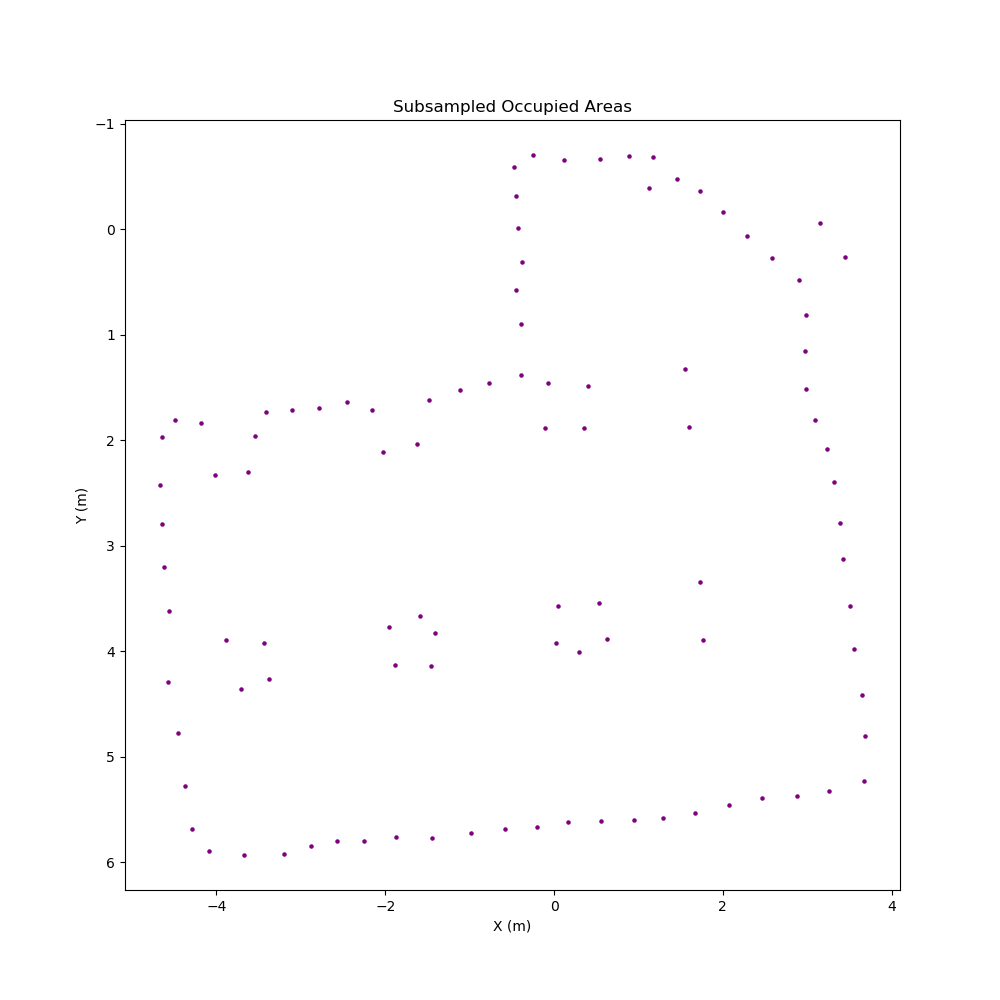
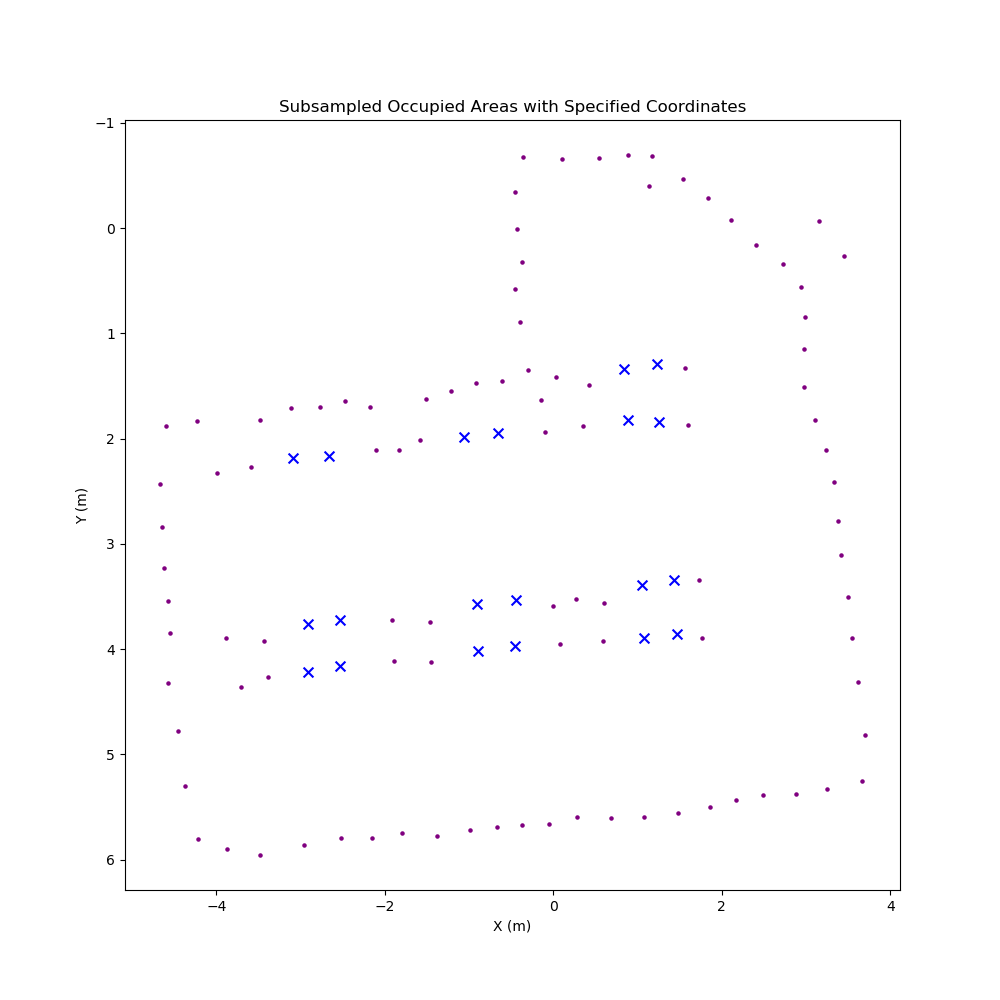
points

Changed region(s): [[0.279, 0.093, 0.744, 0.124]]

diff --git a/Y_Mapping/subsampling.py b/Y_Mapping/subsampling.py
@@ -19,7 +19,6 @@ origin_y = origin[1]
 width = map_image.shape[1]
 height = map_image.shape[0]
 
-
 # Perform clustering-based subsampling
 def cluster_subsampling(map_image, resolution, origin_x, origin_y, num_clusters):
     occupied_pixels = np.argwhere(map_image == 0)  # Find coordinates of occupied pixels
@@ -44,20 +43,20 @@ num_clusters = 100  # Adjust as needed
 # Perform clustering-based subsampling
 subsampled_coordinates = cluster_subsampling(map_image, resolution, origin_x, origin_y, num_clusters)
 
-# Write subsampled coordinates to a new file
-output_file_subsampled = "subsampled_coordinates_cart.txt"
-with open(output_file_subsampled, "w") as f:
-    for coord in subsampled_coordinates:
-        x_rounded = round(coord[0], 2)
-        y_rounded = round(coord[1], 2)
-        f.write(f"X: {x_rounded}, Y: {y_rounded}\n")
+# Define the specified coordinates
+specified_coordinates = [
+    (-2.913, 4.222), (-2.532, 4.162), (-0.890, 4.022), (-0.460, 3.972),
+    (1.081, 3.892), (1.461, 3.852), (1.431, 3.342), (1.051, 3.392),
+    (-0.440, 3.532), (-0.910, 3.572), (-2.532, 3.722), (-2.913, 3.762),
+    (-3.093, 2.181), (-2.662, 2.161), (-1.061, 1.981), (-0.660, 1.951),
+    (0.890, 1.821), (1.251, 1.841), (1.231, 1.290), (0.840, 1.340)
+]
 
-print(f"Subsampled coordinates have been saved to '{output_file_subsampled}'")
-
-# Optionally, visualize the subsampled points
+# Optionally, visualize the subsampled points and specified coordinates
 plt.figure(figsize=(10, 10))
 plt.scatter([coord[0] for coord in subsampled_coordinates], [coord[1] for coord in subsampled_coordinates], color='purple', s=5)
-plt.title('Subsampled Occupied Areas')
+plt.scatter([coord[0] for coord in specified_coordinates], [coord[1] for coord in specified_coordinates], color='blue', s=50, marker='x')
+plt.title('Subsampled Occupied Areas with Specified Coordinates')
 plt.xlabel('X (m)')
 plt.ylabel('Y (m)')
 plt.gca().invert_yaxis()
